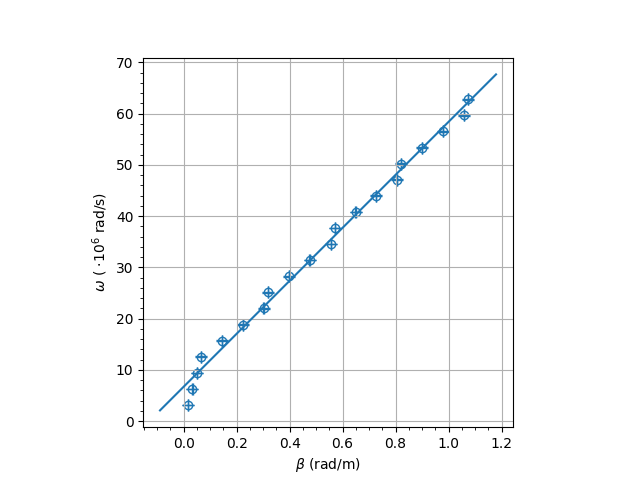
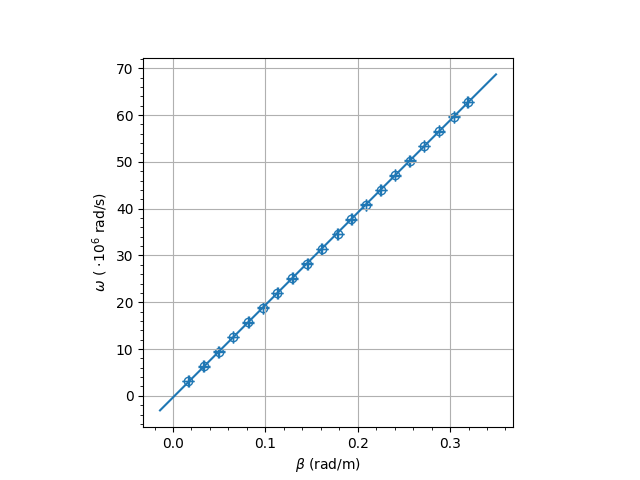
Correcion grafica w vs beta

diff --git a/P1/P1.py b/P1/P1.py
@@ -32,26 +32,26 @@ R_esp.show()
 L_esp = f_var(lambda x: 1e15/(x[0]*x[1]**2), [C_esp, v_phi], r"$L_{Caracteristica}$", r"$\mu$H/m") # uH/m
 L_esp.show()
 
-M = """0.5	5.6	4.64	528	1
-1	5.28	4.48	528	1
-1.5	5.44	4.32	524	1
-2	5.28	4.16	20	0.8
-2.5	5.44	4	120	1
-3	5.28	3.92	183	1
-3.5	5.36	3.84	228	1
-4	5.28	3.68	14.4	0.8
-4.5	5.36	3.68	70	0.8
-5	5.28	3.52	112	1
-5.5	5.36	3.52	152	1
-6	5.28	3.44	12	0.8
-6.5	5.28	3.36	50	0.8
-7	5.2	3.36	82.4	0.8
-7.5	5.28	3.28	110	1
-8	5.36	3.2	10	0.8
-8.5	5.36	3.12	38.4	0.8
-9	5.28	3.12	64.8	0.8
-9.5	5.28	3.04	88.8	0.8
-10	5.2	3.04	7.6	0.8"""
+M = """0.5	5.6	4.64	528	1	1.658760921
+1	5.28	4.48	528	1	3.317521842
+1.5	5.44	4.32	524	1	4.938583651
+2	5.28	4.16	20	0.8	6.534512719
+2.5	5.44	4	120	1	8.168140899
+3	5.28	3.92	183	1	9.732654041
+3.5	5.36	3.84	228	1	11.29716718
+4	5.28	3.68	14.4	0.8	12.92828209
+4.5	5.36	3.68	70	0.8	14.54557399
+5	5.28	3.52	112	1	16.08495439
+5.5	5.36	3.52	152	1	17.81911353
+6	5.28	3.44	12	0.8	19.30194526
+6.5	5.28	3.36	50	0.8	20.89159115
+7	5.2	3.36	82.4	0.8	22.47369721
+7.5	5.28	3.28	110	1	24.0331838
+8	5.36	3.2	10	0.8	25.63539605
+8.5	5.36	3.12	38.4	0.8	27.18357291
+9	5.28	3.12	64.8	0.8	28.7970949
+9.5	5.28	3.04	88.8	0.8	30.43323635
+10	5.2	3.04	7.6	0.8	31.89344862"""
 
 M = text2dataframe(M)
 M = M.to_numpy()
@@ -73,18 +73,24 @@ dphi_value = dphi.value
 dphi_err = dphi.err
 
 n = 0
-for i in range(len(dphi_value) - 1):
-    if dphi_value[i+1] < dphi_value[i]:
+for i in range(len(dphi_value)):
+    if i%4 == 3:
         n += 1
-    dphi_value[i+1] += 2*np.pi*n
-dphi = var(dphi_value, dphi_err)
+    dphi_value[i] += 2*np.pi*n
+dphi = var(dphi_value, dphi_err, "phi")
 
 beta = f_var(lambda x: x[0]/100, [dphi], r"$\beta$", "rad/m")
 w.redefine(lambda x: x[0]/1e6, r" $\cdot 10^6$ rad/s")
 
-w.vs(beta)
+[vf, w0] = w.vs(beta)
 plt.savefig("./P1/images/w_vs_beta")
 plt.close()
+
+vf.name = "v_f"
+w0.name = "Corte con la ordenada w vs beta"
+
+vf.show()
+w0.show()
 
 # Cálculo de alpha:
 import sympy as sp
